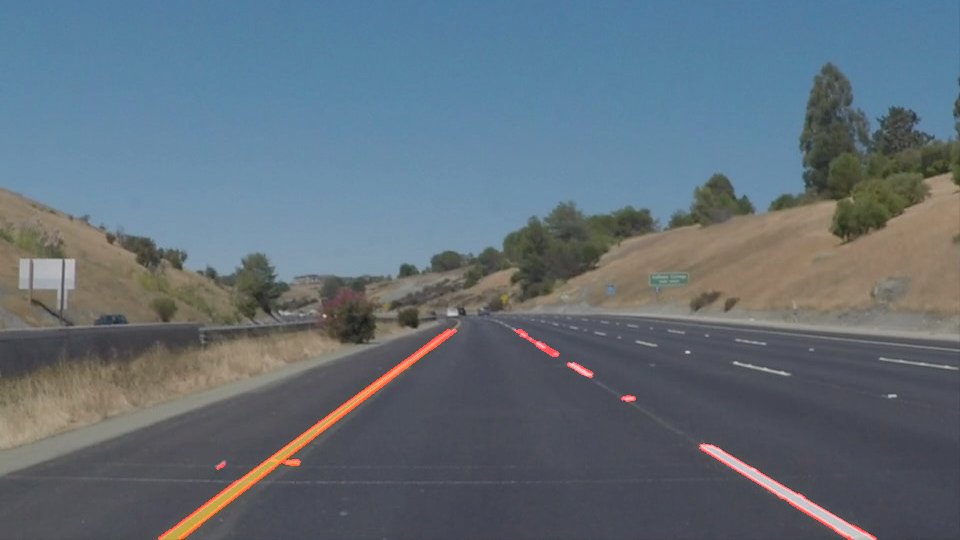
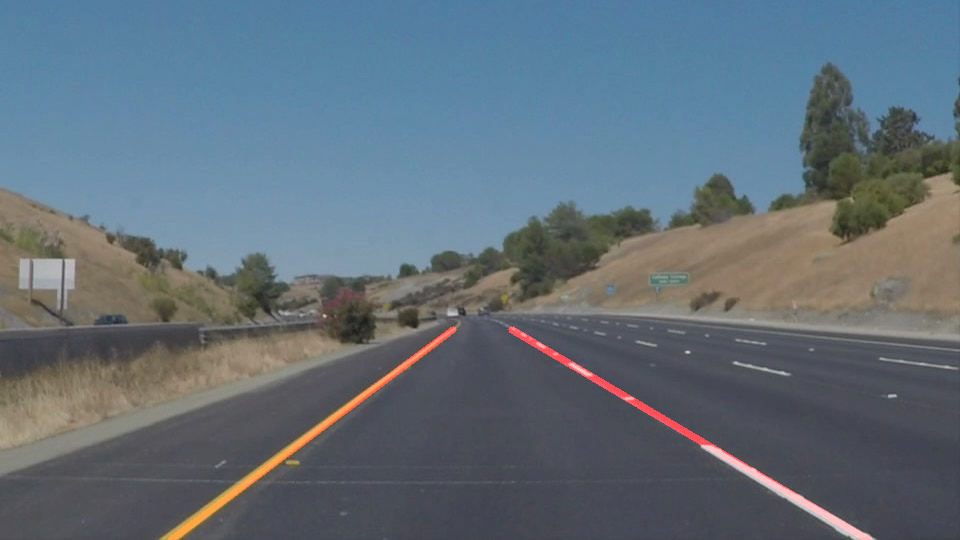
Updated processed image and completed extrapolation of lane lines. Planning on adding additional documentation + cleanup code. It is not compatible with challenge video.

diff --git a/LaneLinesMarker.py b/LaneLinesMarker.py
@@ -6,9 +6,14 @@ import os
 
 # const values
 DEFAULT_LOW_CANNY_THRESHOLD = 50
-DEFAULT_THICKNESS = 2
+DEFAULT_THICKNESS = 5
+LEFT_BOUNDARY_RATIO = .104
 PROCESSED_FILE = "processed_images/%s"
+REGION_OF_INTEREST_LEFT_BOUND_RATIO = .458
+REGION_OF_INTEREST_RIGHT_BOUND_RATIO = .542
+REGION_OF_INTEREST_HEIGHT_RATIO = .611
 RGB_RED = [255, 0, 0]
+RIGHT_BOUNDARY_RATIO = .958
 SHAPE_X_INDEX = 1
 SHAPE_Y_INDEX = 0
 TEST_FILE = "test_images/%s"
@@ -61,7 +66,6 @@ def region_of_interest(img, vertices):
     masked_image = cv2.bitwise_and(img, mask)
     return masked_image
 
-
 def draw_lines(img, lines, color=RGB_RED, thickness=DEFAULT_THICKNESS):
     """
     NOTE: this is the function you might want to use as a starting point once you want to
@@ -84,7 +88,59 @@ def draw_lines(img, lines, color=RGB_RED, thickness=DEFAULT_THICKNESS):
             cv2.line(img, (x1, y1), (x2, y2), color, thickness)
 
 
-def hough_lines(img, rho, theta, threshold, min_line_len, max_line_gap):
+def draw_extrapolated_lines(img, lines, width, bottom_height, top_height, color=RGB_RED, thickness=DEFAULT_THICKNESS):
+    """
+    NOTE: this is the function you might want to use as a starting point once you want to
+    average/extrapolate the line segments you detect to map out the full
+    extent of the lane (going from the result shown in raw-lines-example.mp4
+    to that shown in P1_example.mp4).
+
+    Think about things like separating line segments by their
+    slope ((y2-y1)/(x2-x1)) to decide which segments are part of the left
+    line vs. the right line.  Then, you can average the position of each of
+    the lines and extrapolate to the top and bottom of the lane.
+
+    This function draws `lines` with `color` and `thickness`.
+    Lines are drawn on the image inplace (mutates the image).
+    If you want to make the lines semi-transparent, think about combining
+    this function with the weighted_img() function below
+    """
+    middle = int(width / 2)
+    left_array = []
+    right_array= []
+
+    for line in lines:
+        for x1, y1, x2, y2 in line:
+            # There should be no instance where a line segment crosses between the middle of the image
+            if x1 < middle:
+                left_array.append((x1, y1))
+                left_array.append((x2, y2))
+            else:
+                right_array.append((x1, y1))
+                right_array.append((x2, y2))
+
+    # Generate a y=mx+b formula
+    left_formula = np.polyfit(np.array(left_array)[:, 0], np.array(left_array)[:, 1], 1)
+    right_formula = np.polyfit(np.array(right_array)[:, 0], np.array(right_array)[:, 1], 1)
+
+    left_m = left_formula[0]
+    left_b = left_formula[1]
+
+    right_m = right_formula[0]
+    right_b = right_formula[1]
+
+    # Calculate the x positions based on the parameter bottom / top heights.
+    left_x_bottom = (bottom_height - left_b) / left_m
+    left_x_top = (top_height - left_b) / left_m
+    right_x_bottom = (bottom_height - right_b) / right_m
+    right_x_top = (top_height - right_b) / right_m
+
+    # Draw a line from the bottom of the image to the specified maximum height
+    cv2.line(img, (int(left_x_bottom), bottom_height), (int(left_x_top), top_height), color, thickness)
+    cv2.line(img, (int(right_x_bottom), bottom_height), (int(right_x_top), top_height), color, thickness)
+
+
+def hough_lines(img, rho, theta, threshold, min_line_len, max_line_gap, width, bottom_height, top_height):
     """
     `img` should be the output of a Canny transform.
 
@@ -93,7 +149,7 @@ def hough_lines(img, rho, theta, threshold, min_line_len, max_line_gap):
     lines = cv2.HoughLinesP(img, rho, theta, threshold, np.array([]), minLineLength=min_line_len,
                             maxLineGap=max_line_gap)
     line_img = np.zeros((img.shape[0], img.shape[1], 3), dtype=np.uint8)
-    draw_lines(line_img, lines)
+    draw_extrapolated_lines(line_img, lines, width, bottom_height, top_height)
     return line_img
 
 
@@ -124,13 +180,18 @@ def process_image(image):
     blur_gray = gaussian_blur(gray, 5)
     edges = canny(blur_gray, DEFAULT_LOW_CANNY_THRESHOLD, DEFAULT_LOW_CANNY_THRESHOLD*THRESHOLD_RATIO)
 
-    # TODO: Make this dynamic for images of different sizes
+    leftmost = int(xsize * LEFT_BOUNDARY_RATIO)
+    rightmost = int(xsize * RIGHT_BOUNDARY_RATIO)
+    region_height = int(ysize * REGION_OF_INTEREST_HEIGHT_RATIO)
+    region_left = int(xsize * REGION_OF_INTEREST_LEFT_BOUND_RATIO)
+    region_right = int(xsize * REGION_OF_INTEREST_RIGHT_BOUND_RATIO)
+
     # Using a trapezoid instead of a triangle allows more evenness between
     # the left and right side lines across a video clip.
-    trapezoid_array = np.array([[100, ysize], [440, 330], [520, 330], [920, ysize]])
+    trapezoid_array = np.array([[leftmost, ysize], [region_left, region_height], [region_right, region_height], [rightmost, ysize]])
     road_edges = region_of_interest(edges, [trapezoid_array])
 
-    line_drawn_image = hough_lines(road_edges, 1, np.pi/180, 5, 1, 10)
+    line_drawn_image = hough_lines(road_edges, 1, np.pi/180, 15, 10, 20, xsize, ysize, region_height)
     result = weighted_img(line_drawn_image, copied_image)
 
     return result

diff --git a/VideoLaneMarker.py b/VideoLaneMarker.py
@@ -12,3 +12,4 @@ def process_video(output_name, file_name):
 # MAIN METHOD
 process_video("white_output.mp4", "solidWhiteRight.mp4")
 process_video("yellow_output.mp4", "solidYellowLeft.mp4")
+# process_video("extra.mp4", "challenge.mp4")
